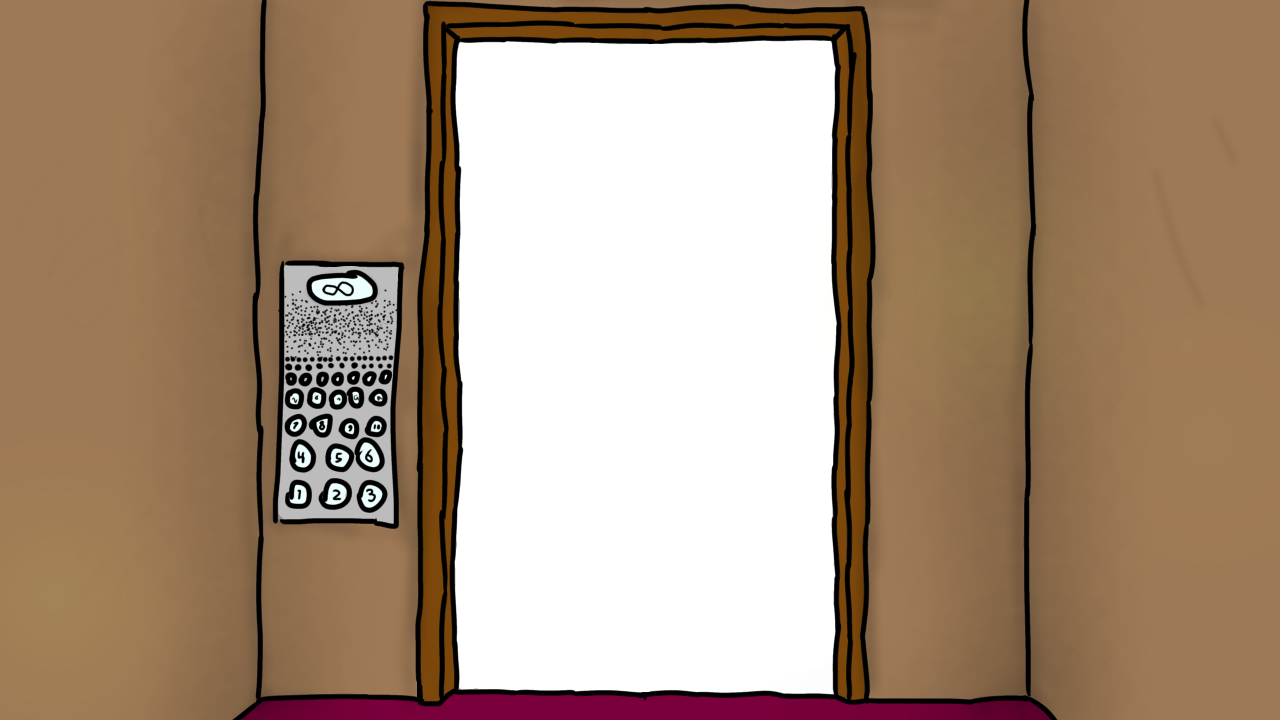
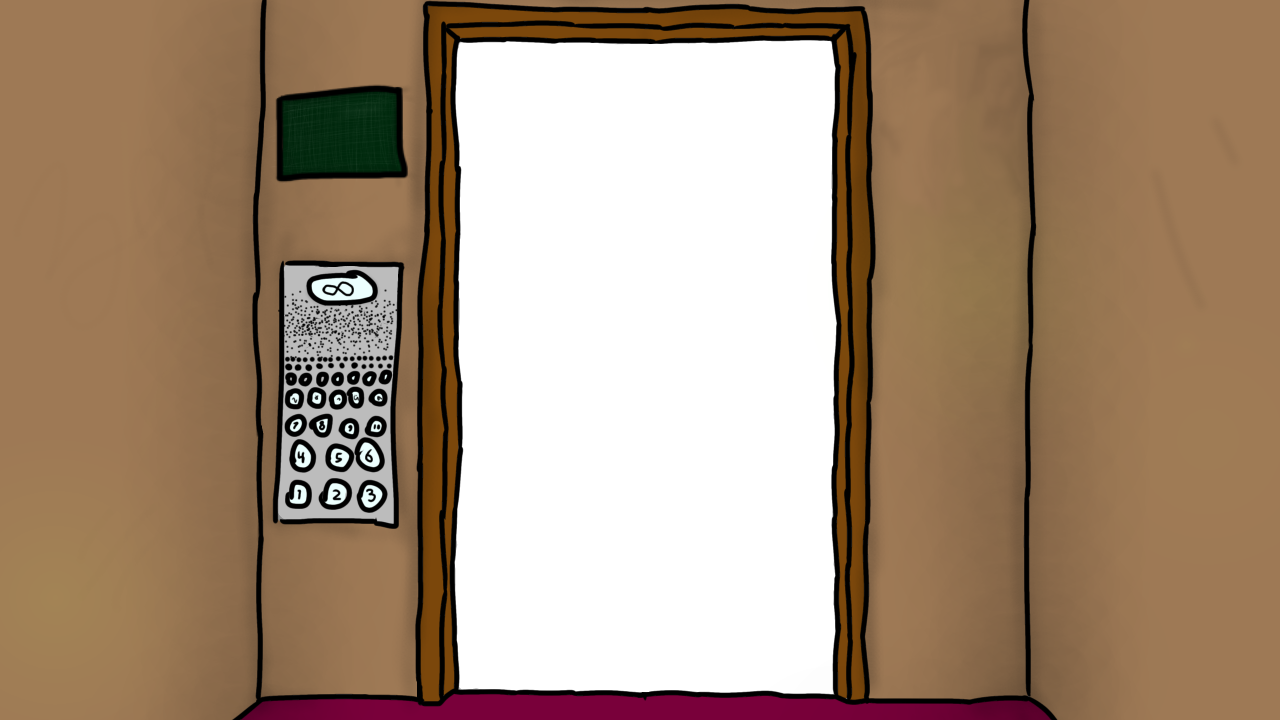
Forgot to fix powerwash time from an old debugging, also elevator asset updated

Changed region(s): [[0.2188, 0.0917, 0.3438, 0.275]]

diff --git a/minigames/powerwash.py b/minigames/powerwash.py
@@ -13,7 +13,7 @@ class MgPowerwash(Minigame):
         self.sparkle_rectangle = pr.Rectangle(0,0,480,480)
         self.sparkle_pos = [pr.Vector2(406, 594),pr.Vector2(449, 348),pr.Vector2(265, 338),pr.Vector2(142, 240),pr.Vector2(505, 47),pr.Vector2(667, 296),pr.Vector2(705, 396),pr.Vector2(1068, 229),pr.Vector2(1019, 101),pr.Vector2(945, 520),pr.Vector2(1004, 530),pr.Vector2(1121, 648),pr.Vector2(401, 592),pr.Vector2(257, 636),pr.Vector2(132, 493)]
         self.sparkle_frames = [0,14,3,9,4,17,8,0,19,10,11,15,4,2,1]
-        self.max_time = 400
+        self.max_time = 5
 
     def update(self):
         if pr.is_mouse_button_down(0):
